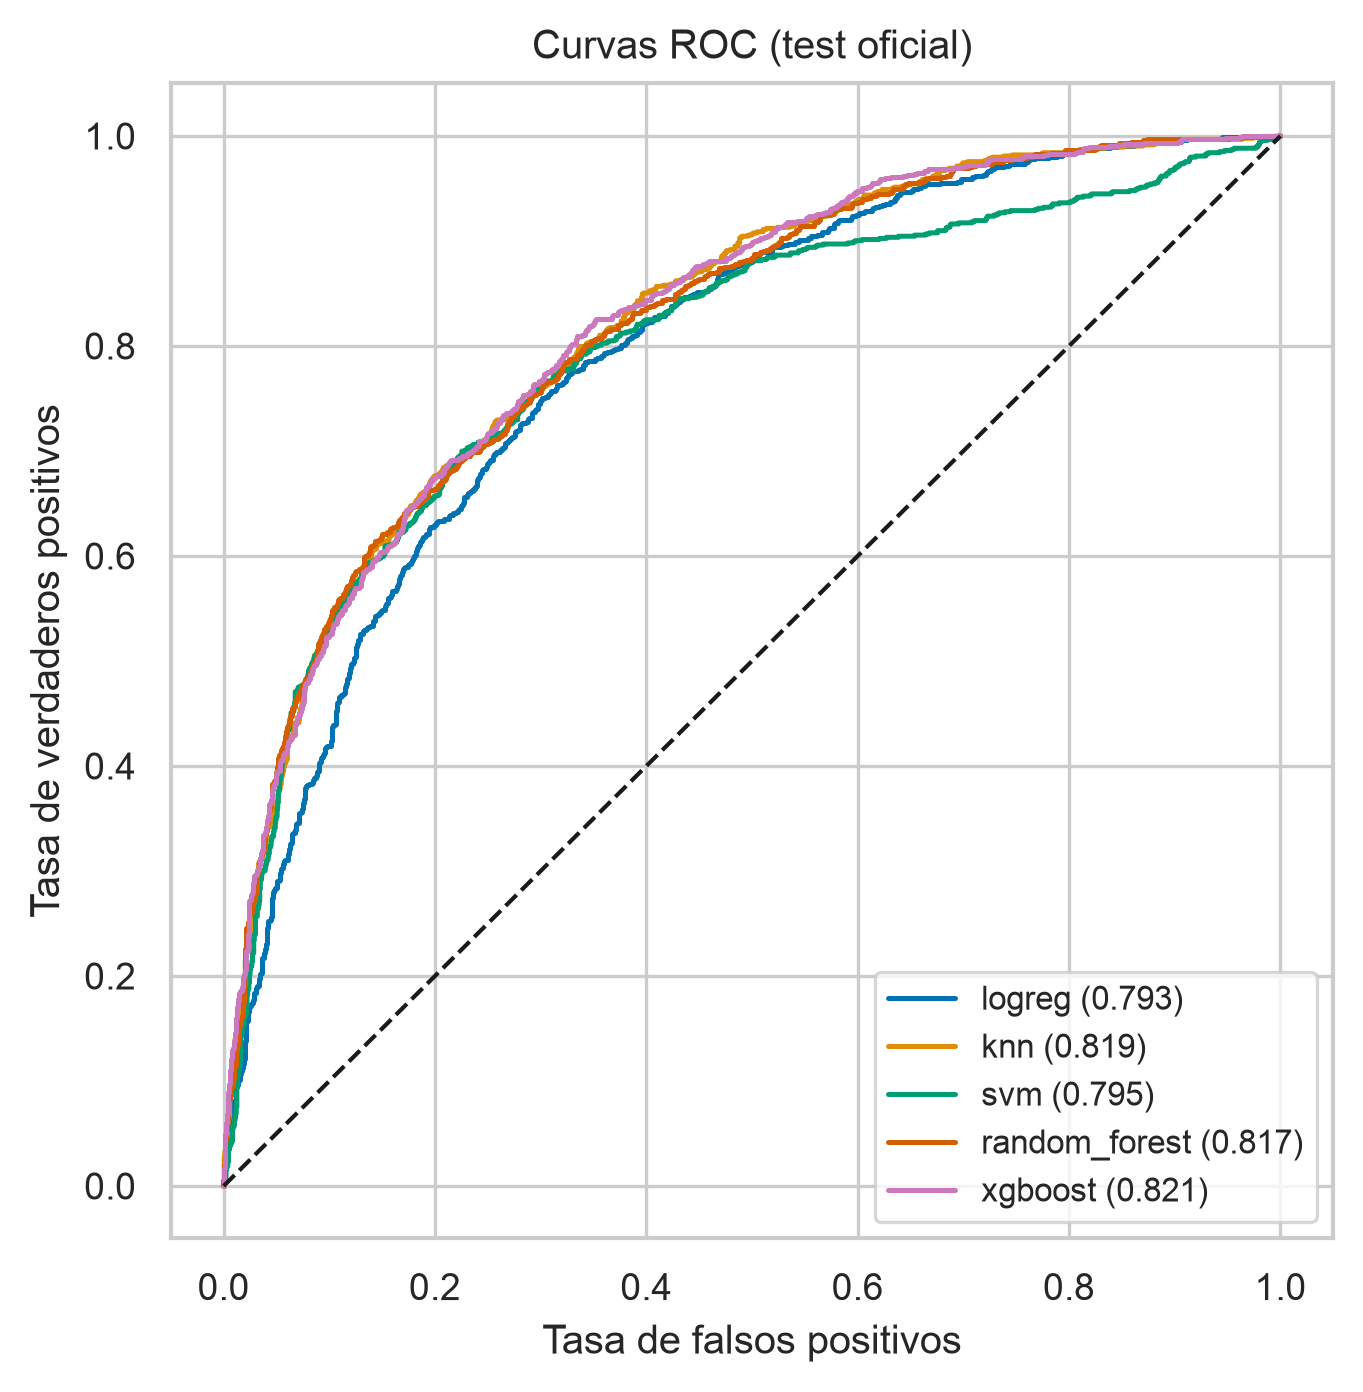
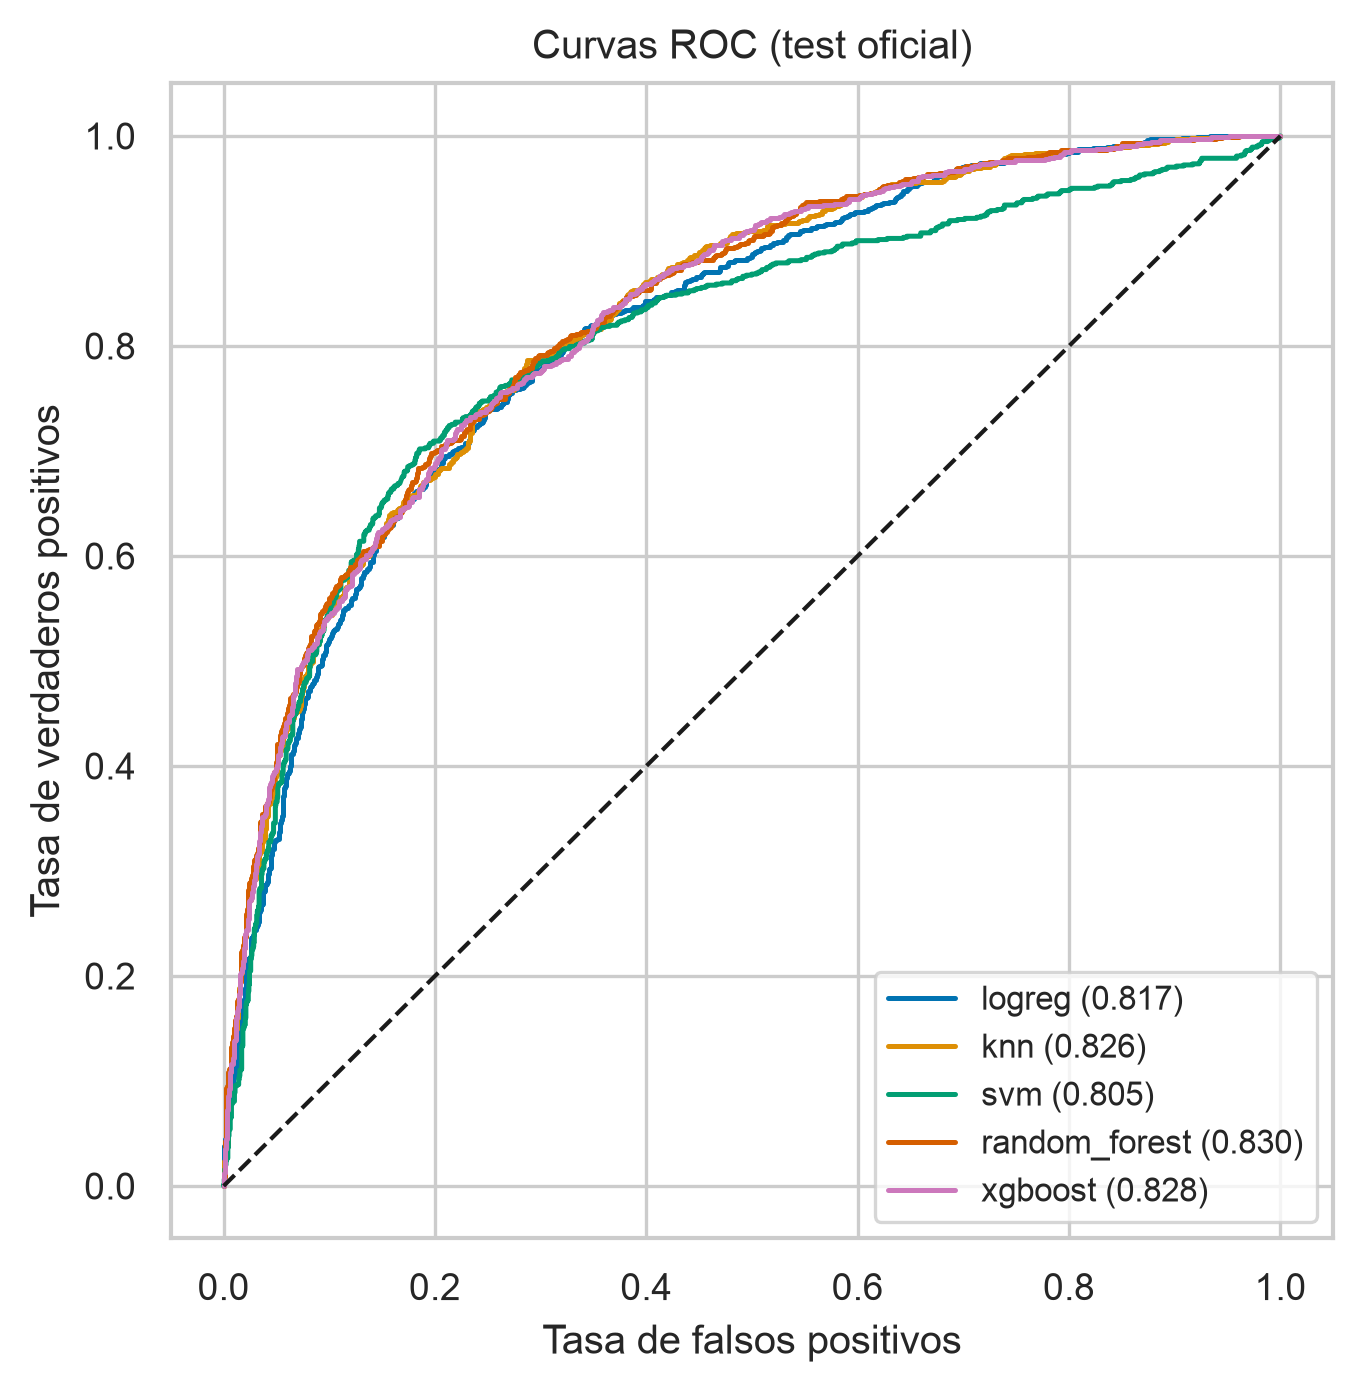
exp: regenera test oficial y reports por modelo con features de nivel frase
Grid search re-lanzado sobre el nuevo conjunto de features. Mejora en test
oficial en los cinco modelos:
- AUC: RF 0.817->0.830, xgboost 0.821->0.828, logreg 0.793->0.817 (cruza 0.80)
- F1:  ~0.66 -> 0.676-0.686 (mejor: svm 0.686)

Supera con claridad a GPT-4-turbo-como-juez (F1 0.634) y a Luna (0.654);
gap con Llama-2-13B (0.787)/LettuceDetect (0.792) reducido de ~15 a ~10 pts.

diff --git a/outputs/reports/knn.md b/outputs/reports/knn.md
@@ -1,23 +1,23 @@
 # knn — grid search y evaluación
 
-- Mejor F1 (CV GroupKFold por `source`): **0.677**
-- Mejores hiperparámetros: `{'kneighborsclassifier__n_neighbors': 51, 'kneighborsclassifier__p': 1, 'kneighborsclassifier__weights': 'distance'}`
+- Mejor F1 (CV GroupKFold por `source`): **0.685**
+- Mejores hiperparámetros: `{'kneighborsclassifier__n_neighbors': 51, 'kneighborsclassifier__p': 2, 'kneighborsclassifier__weights': 'distance'}`
 
 ## Rejilla de hiperparámetros (top-5 por F1)
 
 |   param_kneighborsclassifier__n_neighbors |   param_kneighborsclassifier__p | param_kneighborsclassifier__weights   |   mean_test_score |   std_test_score |
 |------------------------------------------:|--------------------------------:|:--------------------------------------|------------------:|-----------------:|
-|                                        51 |                               1 | distance                              |            0.6773 |           0.0081 |
-|                                       101 |                               2 | distance                              |            0.6767 |           0.0077 |
-|                                        51 |                               1 | uniform                               |            0.6767 |           0.0075 |
-|                                        25 |                               1 | uniform                               |            0.6763 |           0.0088 |
-|                                       101 |                               2 | uniform                               |            0.6758 |           0.0066 |
+|                                        51 |                               2 | distance                              |            0.6846 |           0.0076 |
+|                                       101 |                               2 | distance                              |            0.6832 |           0.0076 |
+|                                        25 |                               2 | distance                              |            0.683  |           0.0062 |
+|                                        25 |                               2 | uniform                               |            0.6822 |           0.0054 |
+|                                        25 |                               1 | distance                              |            0.6814 |           0.0075 |
 
 
 ## Métricas del modelo ajustado (secciones A–F)
 
-- **A** AUC-ROC 0.802 (IC95% [0.795, 0.809]) · AUC-PR 0.769
-- **B** F1 0.678 · precision 0.727 · recall 0.636 · accuracy 0.731 · specificity 0.808
-- **C** balanced accuracy 0.722
-- **D** Brier 0.179 · ECE 0.015
-- Umbral (Youden) 0.499
+- **A** AUC-ROC 0.811 (IC95% [0.805, 0.818]) · AUC-PR 0.783
+- **B** F1 0.696 · precision 0.725 · recall 0.668 · accuracy 0.739 · specificity 0.797
+- **C** balanced accuracy 0.732
+- **D** Brier 0.174 · ECE 0.016
+- Umbral (Youden) 0.464

diff --git a/outputs/reports/logreg.md b/outputs/reports/logreg.md
@@ -1,23 +1,23 @@
 # logreg — grid search y evaluación
 
-- Mejor F1 (CV GroupKFold por `source`): **0.677**
-- Mejores hiperparámetros: `{'C': 1.0, 'class_weight': 'balanced', 'solver': 'lbfgs'}`
+- Mejor F1 (CV GroupKFold por `source`): **0.692**
+- Mejores hiperparámetros: `{'C': 10.0, 'class_weight': 'balanced', 'solver': 'liblinear'}`
 
 ## Rejilla de hiperparámetros (top-5 por F1)
 
 |   param_C | param_class_weight   | param_solver   |   mean_test_score |   std_test_score |
 |----------:|:---------------------|:---------------|------------------:|-----------------:|
-|       1   | balanced             | lbfgs          |            0.6773 |           0.0075 |
-|      10   | balanced             | lbfgs          |            0.6773 |           0.0075 |
-|      10   | balanced             | liblinear      |            0.6772 |           0.0076 |
-|       1   | balanced             | liblinear      |            0.6771 |           0.0073 |
-|       0.1 | balanced             | lbfgs          |            0.6736 |           0.0066 |
+|      10   | balanced             | liblinear      |            0.6915 |           0.0068 |
+|       1   | balanced             | liblinear      |            0.6912 |           0.0075 |
+|      10   | balanced             | lbfgs          |            0.691  |           0.0072 |
+|       1   | balanced             | lbfgs          |            0.6909 |           0.007  |
+|       0.1 | balanced             | lbfgs          |            0.6806 |           0.0069 |
 
 
 ## Métricas del modelo ajustado (secciones A–F)
 
-- **A** AUC-ROC 0.769 (IC95% [0.762, 0.776]) · AUC-PR 0.713
-- **B** F1 0.677 · precision 0.645 · recall 0.713 · accuracy 0.697 · specificity 0.685
-- **C** balanced accuracy 0.699
-- **D** Brier 0.196 · ECE 0.043
-- Umbral (Youden) 0.505
+- **A** AUC-ROC 0.790 (IC95% [0.783, 0.797]) · AUC-PR 0.747
+- **B** F1 0.695 · precision 0.650 · recall 0.746 · accuracy 0.708 · specificity 0.678
+- **C** balanced accuracy 0.712
+- **D** Brier 0.188 · ECE 0.044
+- Umbral (Youden) 0.485

diff --git a/outputs/reports/random_forest.md b/outputs/reports/random_forest.md
@@ -1,23 +1,23 @@
 # random_forest — grid search y evaluación
 
-- Mejor F1 (CV GroupKFold por `source`): **0.674**
-- Mejores hiperparámetros: `{'max_depth': 12, 'max_features': 'sqrt', 'min_samples_leaf': 5, 'n_estimators': 300}`
+- Mejor F1 (CV GroupKFold por `source`): **0.689**
+- Mejores hiperparámetros: `{'max_depth': 12, 'max_features': 0.5, 'min_samples_leaf': 5, 'n_estimators': 600}`
 
 ## Rejilla de hiperparámetros (top-5 por F1)
 
 |   param_max_depth | param_max_features   |   param_min_samples_leaf |   param_n_estimators |   mean_test_score |   std_test_score |
 |------------------:|:---------------------|-------------------------:|---------------------:|------------------:|-----------------:|
-|                12 | 0.5                  |                        5 |                  300 |            0.6736 |           0.0139 |
-|                12 | sqrt                 |                        5 |                  300 |            0.6736 |           0.0139 |
-|                12 | 0.5                  |                        5 |                  600 |            0.671  |           0.0138 |
-|                12 | sqrt                 |                        5 |                  600 |            0.671  |           0.0138 |
-|                   | sqrt                 |                        5 |                  300 |            0.6701 |           0.0128 |
+|                12 | 0.5                  |                        5 |                  600 |            0.6892 |           0.006  |
+|                   | sqrt                 |                        1 |                  300 |            0.6891 |           0.0089 |
+|                12 | 0.5                  |                        5 |                  300 |            0.6891 |           0.0072 |
+|                   | sqrt                 |                        5 |                  600 |            0.6891 |           0.0094 |
+|                   | 0.5                  |                        5 |                  300 |            0.6891 |           0.0071 |
 
 
 ## Métricas del modelo ajustado (secciones A–F)
 
-- **A** AUC-ROC 0.803 (IC95% [0.796, 0.810]) · AUC-PR 0.768
-- **B** F1 0.680 · precision 0.718 · recall 0.646 · accuracy 0.729 · specificity 0.796
-- **C** balanced accuracy 0.721
-- **D** Brier 0.179 · ECE 0.012
-- Umbral (Youden) 0.482
+- **A** AUC-ROC 0.817 (IC95% [0.810, 0.824]) · AUC-PR 0.786
+- **B** F1 0.709 · precision 0.712 · recall 0.705 · accuracy 0.742 · specificity 0.771
+- **C** balanced accuracy 0.738
+- **D** Brier 0.172 · ECE 0.017
+- Umbral (Youden) 0.446

diff --git a/outputs/reports/svm.md b/outputs/reports/svm.md
@@ -1,23 +1,23 @@
 # svm — grid search y evaluación
 
-- Mejor F1 (CV GroupKFold por `source`): **0.675**
-- Mejores hiperparámetros: `{'svc__C': 1.0, 'svc__gamma': 1.0}`
+- Mejor F1 (CV GroupKFold por `source`): **0.690**
+- Mejores hiperparámetros: `{'svc__C': 10.0, 'svc__gamma': 0.1}`
 
 ## Rejilla de hiperparámetros (top-5 por F1)
 
 |   param_svc__C | param_svc__gamma   |   mean_test_score |   std_test_score |
 |---------------:|:-------------------|------------------:|-----------------:|
-|            1   | 1.0                |            0.6755 |           0.0066 |
-|           10   | scale              |            0.6748 |           0.0099 |
-|            0.5 | 1.0                |            0.6745 |           0.0087 |
-|            1   | scale              |            0.6708 |           0.0077 |
-|           10   | 0.1                |            0.6707 |           0.0077 |
+|             10 | 0.1                |            0.6904 |           0.0122 |
+|             10 | scale              |            0.6894 |           0.0123 |
+|              1 | 0.1                |            0.6835 |           0.0106 |
+|              1 | 1.0                |            0.6834 |           0.0089 |
+|              1 | scale              |            0.6796 |           0.0092 |
 
 
 ## Métricas del modelo ajustado (secciones A–F)
 
-- **A** AUC-ROC 0.776 (IC95% [0.769, 0.784]) · AUC-PR 0.733
-- **B** F1 0.693 · precision 0.694 · recall 0.692 · accuracy 0.727 · specificity 0.755
-- **C** balanced accuracy 0.723
-- **D** Brier 0.187 · ECE 0.027
-- Umbral (Youden) 0.392
+- **A** AUC-ROC 0.799 (IC95% [0.791, 0.806]) · AUC-PR 0.765
+- **B** F1 0.702 · precision 0.728 · recall 0.677 · accuracy 0.743 · specificity 0.797
+- **C** balanced accuracy 0.737
+- **D** Brier 0.179 · ECE 0.022
+- Umbral (Youden) 0.451

diff --git a/outputs/reports/xgboost.md b/outputs/reports/xgboost.md
@@ -1,23 +1,23 @@
 # xgboost — grid search y evaluación
 
-- Mejor F1 (CV GroupKFold por `source`): **0.675**
-- Mejores hiperparámetros: `{'learning_rate': 0.03, 'max_depth': 4, 'n_estimators': 300, 'reg_lambda': 1, 'subsample': 0.8}`
+- Mejor F1 (CV GroupKFold por `source`): **0.695**
+- Mejores hiperparámetros: `{'learning_rate': 0.1, 'max_depth': 3, 'n_estimators': 600, 'reg_lambda': 1, 'subsample': 0.8}`
 
 ## Rejilla de hiperparámetros (top-5 por F1)
 
 |   param_learning_rate |   param_max_depth |   param_n_estimators |   param_reg_lambda |   param_subsample |   mean_test_score |   std_test_score |
 |----------------------:|------------------:|---------------------:|-------------------:|------------------:|------------------:|-----------------:|
-|                  0.03 |                 4 |                  300 |                  1 |               0.8 |            0.6748 |           0.0126 |
-|                  0.03 |                 4 |                  300 |                  2 |               0.8 |            0.6743 |           0.012  |
-|                  0.03 |                 4 |                  300 |                  1 |               1   |            0.6737 |           0.0111 |
-|                  0.03 |                 3 |                  600 |                  1 |               1   |            0.6736 |           0.0103 |
-|                  0.03 |                 6 |                  300 |                  2 |               0.8 |            0.6735 |           0.0122 |
+|                  0.1  |                 3 |                  600 |                  1 |               0.8 |            0.6955 |           0.0106 |
+|                  0.03 |                 6 |                  600 |                  1 |               0.8 |            0.6948 |           0.0103 |
+|                  0.03 |                 6 |                  300 |                  2 |               0.8 |            0.6945 |           0.0101 |
+|                  0.03 |                 6 |                  600 |                  2 |               0.8 |            0.6936 |           0.0094 |
+|                  0.1  |                 4 |                  300 |                  2 |               0.8 |            0.6932 |           0.0083 |
 
 
 ## Métricas del modelo ajustado (secciones A–F)
 
-- **A** AUC-ROC 0.806 (IC95% [0.799, 0.813]) · AUC-PR 0.771
-- **B** F1 0.680 · precision 0.721 · recall 0.643 · accuracy 0.730 · specificity 0.800
-- **C** balanced accuracy 0.722
-- **D** Brier 0.177 · ECE 0.006
-- Umbral (Youden) 0.486
+- **A** AUC-ROC 0.815 (IC95% [0.808, 0.822]) · AUC-PR 0.784
+- **B** F1 0.696 · precision 0.741 · recall 0.655 · accuracy 0.745 · specificity 0.816
+- **C** balanced accuracy 0.736
+- **D** Brier 0.173 · ECE 0.023
+- Umbral (Youden) 0.502

diff --git a/outputs/reports/test_oficial.md b/outputs/reports/test_oficial.md
@@ -6,10 +6,10 @@ Modelos ajustados por grid search (GroupKFold por `source`) sobre train, evaluad
 
 | modelo        |   AUC-ROC | IC95%          |   AUC-PR |    F1 |   precision |   recall |   bal_acc |   Brier |   ECE |
 |:--------------|----------:|:---------------|---------:|------:|------------:|---------:|----------:|--------:|------:|
-| xgboost       |     0.821 | [0.805, 0.837] |    0.718 | 0.66  |       0.647 |    0.673 |     0.738 |   0.165 | 0.07  |
-| knn           |     0.819 | [0.803, 0.836] |    0.711 | 0.66  |       0.646 |    0.676 |     0.738 |   0.166 | 0.066 |
-| random_forest |     0.817 | [0.801, 0.834] |    0.714 | 0.654 |       0.689 |    0.621 |     0.736 |   0.166 | 0.07  |
-| svm           |     0.795 | [0.776, 0.813] |    0.683 | 0.66  |       0.625 |    0.7   |     0.737 |   0.175 | 0.074 |
-| logreg        |     0.793 | [0.777, 0.810] |    0.658 | 0.65  |       0.572 |    0.751 |     0.725 |   0.187 | 0.114 |
+| random_forest |     0.83  | [0.813, 0.845] |    0.733 | 0.676 |       0.656 |    0.698 |     0.751 |   0.16  | 0.068 |
+| xgboost       |     0.828 | [0.811, 0.843] |    0.727 | 0.676 |       0.637 |    0.721 |     0.75  |   0.162 | 0.066 |
+| knn           |     0.826 | [0.811, 0.842] |    0.724 | 0.678 |       0.595 |    0.787 |     0.75  |   0.161 | 0.058 |
+| logreg        |     0.817 | [0.800, 0.832] |    0.706 | 0.671 |       0.615 |    0.738 |     0.745 |   0.177 | 0.11  |
+| svm           |     0.805 | [0.787, 0.823] |    0.697 | 0.686 |       0.67  |    0.702 |     0.758 |   0.166 | 0.071 |
 
 Figuras: `outputs/figures/roc_test.*`, `pr_test.*`.